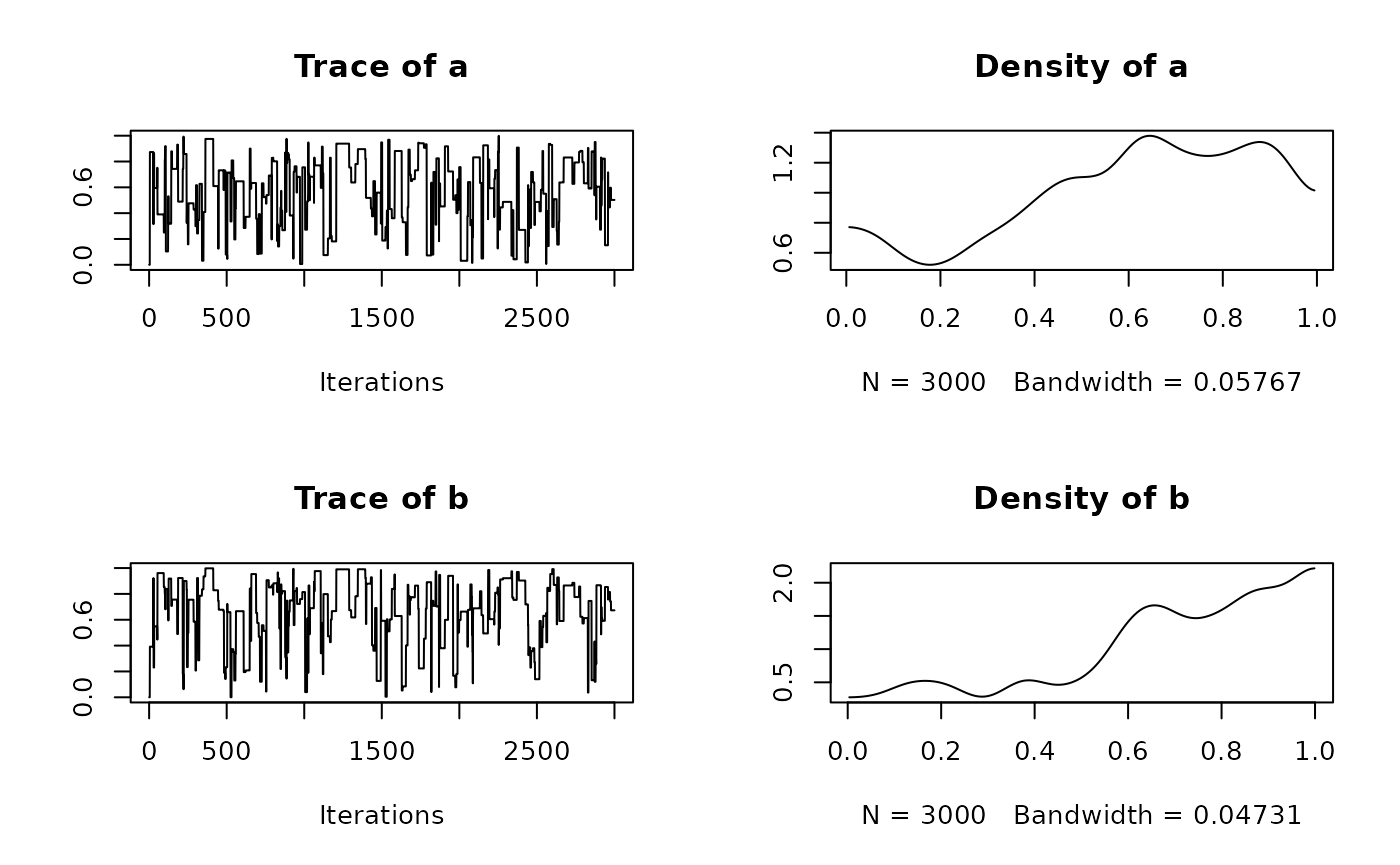
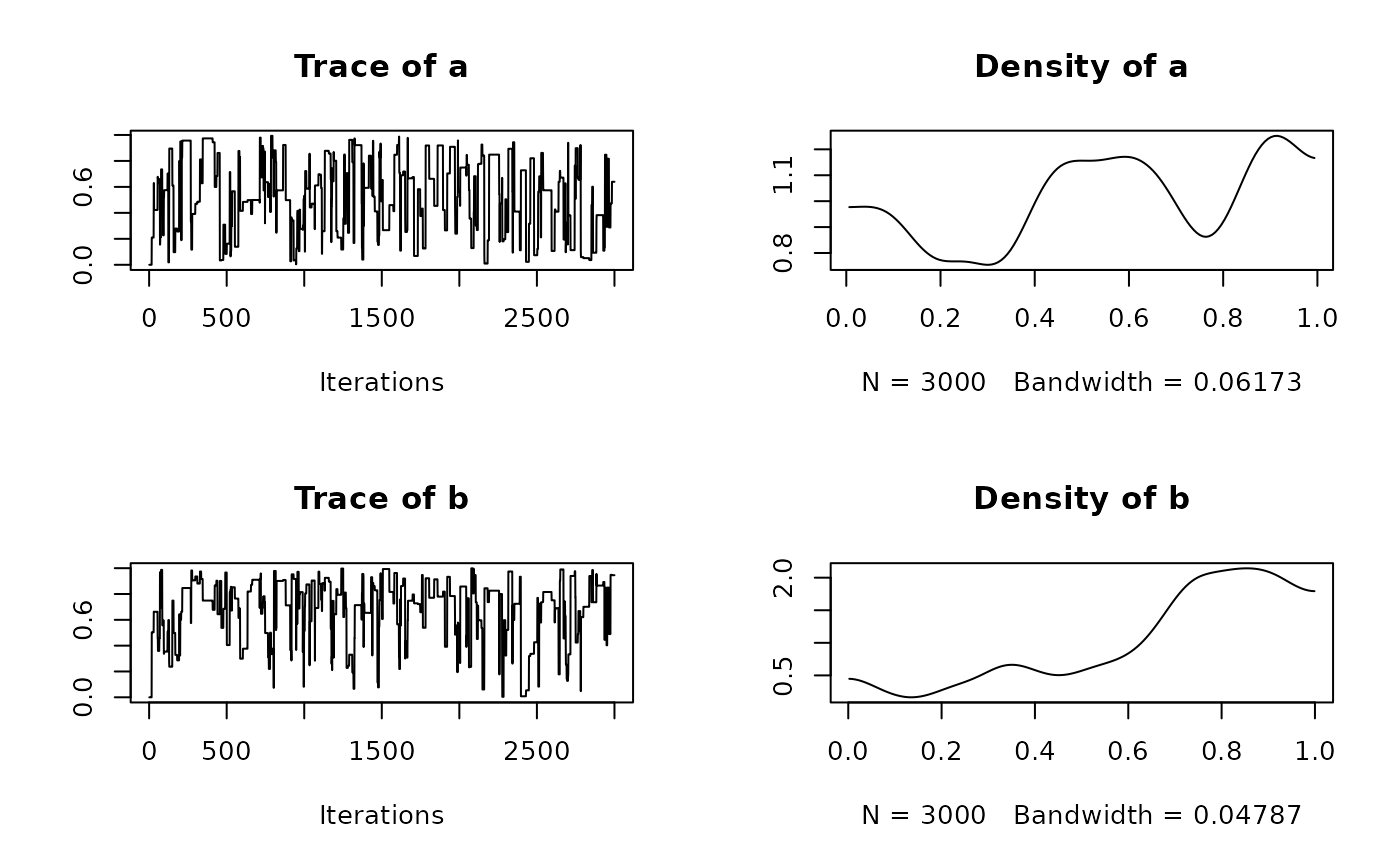
Deploying to gh-pages from @ Bisaloo/simpleMH@ad6290fcabbe4f5887d2ff46864d1dccef38483d 🚀

diff --git a/articles/FAQ.html b/articles/FAQ.html
@@ -127,14 +127,14 @@ the function <code>f</code> you provide.</p>
 <span><span class="co">#&gt;    plus standard error of the mean:</span></span>
 <span><span class="co">#&gt; </span></span>
 <span><span class="co">#&gt;     Mean     SD Naive SE Time-series SE</span></span>
-<span><span class="co">#&gt; a 0.5706 0.2698 0.004926        0.02503</span></span>
-<span><span class="co">#&gt; b 0.6759 0.2533 0.004625        0.02886</span></span>
+<span><span class="co">#&gt; a 0.5278 0.2888 0.005273        0.02768</span></span>
+<span><span class="co">#&gt; b 0.6892 0.2433 0.004442        0.02290</span></span>
 <span><span class="co">#&gt; </span></span>
 <span><span class="co">#&gt; 2. Quantiles for each variable:</span></span>
 <span><span class="co">#&gt; </span></span>
 <span><span class="co">#&gt;      2.5%    25%    50%    75%  97.5%</span></span>
-<span><span class="co">#&gt; a 0.03091 0.3815 0.6131 0.8015 0.9482</span></span>
-<span><span class="co">#&gt; b 0.08417 0.5749 0.7223 0.8715 0.9908</span></span></code></pre></div>
+<span><span class="co">#&gt; a 0.03358 0.2766 0.5636 0.7777 0.9736</span></span>
+<span><span class="co">#&gt; b 0.05380 0.5652 0.7492 0.8654 0.9904</span></span></code></pre></div>
 <div class="sourceCode" id="cb3"><pre class="downlit sourceCode r">
 <code class="sourceCode R"><span><span class="fu"><a href="https://rdrr.io/r/graphics/plot.default.html" class="external-link">plot</a></span><span class="op">(</span><span class="va">res</span><span class="op">$</span><span class="va">samples</span><span class="op">)</span></span></code></pre></div>
 <p><img src="FAQ_files/figure-html/unnamed-chunk-3-1.png" width="700"></p>
